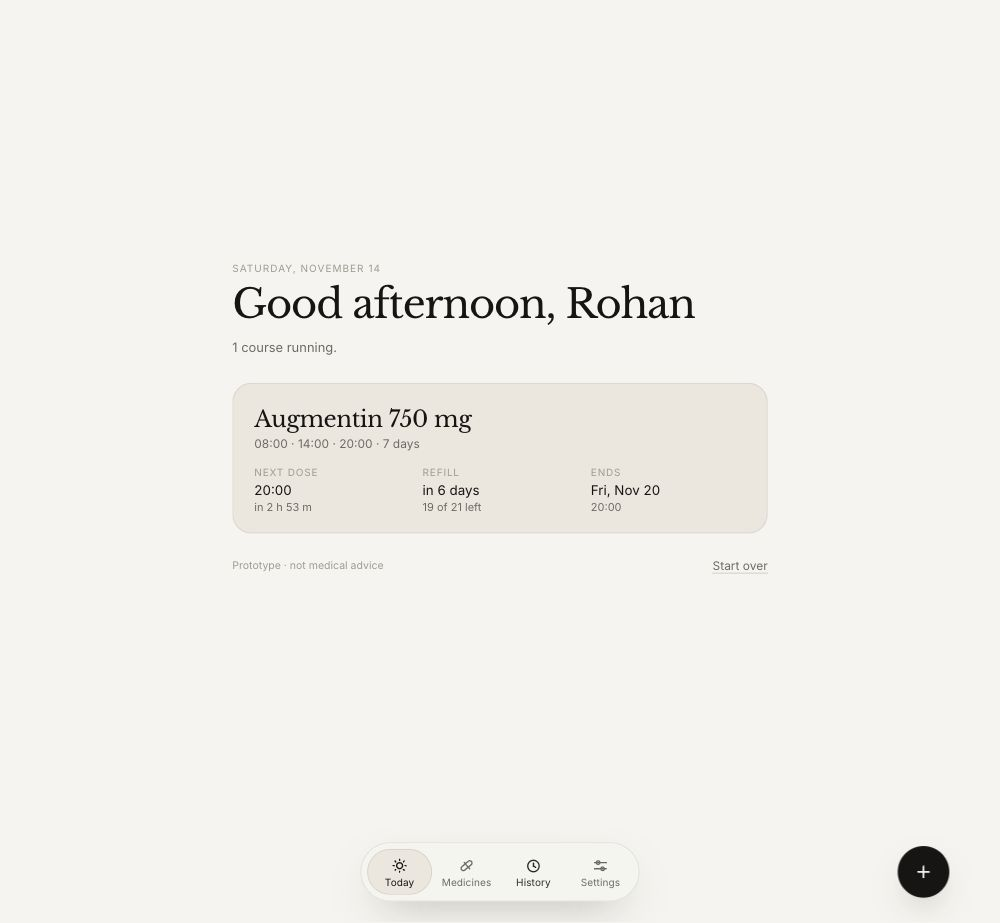
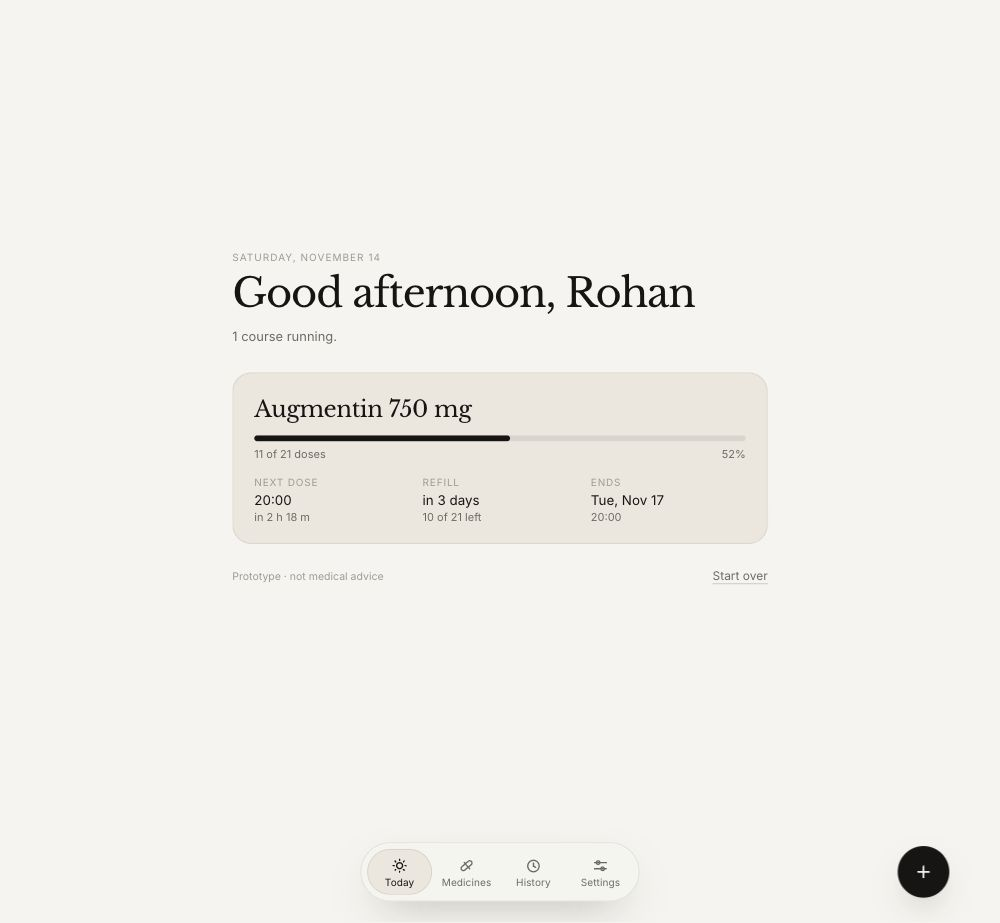
Show how far through the course you are, instead of the schedule text
The plan card's subtitle listed the kind, the times and the length — three facts
nobody needs at a glance. It is now a progress bar: doses behind you over doses
in the course, with '11 of 21 doses' and the percentage underneath. It reads at
arm's length, which is the distance this card is read from.

The bar is derived — done is the count of generated doses whose time has
passed — so it cannot disagree with the next dose below it.

diff --git a/app/src/Home.tsx b/app/src/Home.tsx
@@ -8,7 +8,6 @@ import {
   untilWords,
   type Medicine,
 } from "./engine";
-import { kindLabel } from "./kinds";
 import type { Profile } from "./Onboarding";
 
 function greeting(hour: number) {
@@ -90,16 +89,31 @@ export default function Home({
           <section className="plans">
             {medicines.map((m) => {
               const plan = planFor(m, now);
+              const pct = plan.total ? Math.round((plan.done / plan.total) * 100) : 0;
               return (
                 <article className="plan" key={m.id}>
                   <div className="plan-head">
                     <h2>
                       {displayName(m.name)} {m.strength}
                     </h2>
-                    <span className="plan-sub">
-                      {kindLabel(m.form)} · {m.times.join(" · ")} · {m.days} day
-                      {m.days === 1 ? "" : "s"}
-                    </span>
+                    <div className="plan-progress">
+                      <div
+                        className="bar"
+                        role="progressbar"
+                        aria-valuemin={0}
+                        aria-valuemax={plan.total}
+                        aria-valuenow={plan.done}
+                        aria-label={`${plan.done} of ${plan.total} doses`}
+                      >
+                        <i style={{ width: `${pct}%` }} />
+                      </div>
+                      <div className="plan-meta">
+                        <span>
+                          {plan.done} of {plan.total} doses
+                        </span>
+                        <span>{pct}%</span>
+                      </div>
+                    </div>
                   </div>
 
                   <dl className="plan-kv">

diff --git a/app/src/flow.css b/app/src/flow.css
@@ -591,7 +591,7 @@
   background: var(--bg-2);
   text-align: left;
 }
-.plan-head { display: grid; gap: 3px; }
+.plan-head { display: grid; gap: 13px; }
 .plan-head h2 {
   margin: 0;
   font-family: var(--font-accent);
@@ -599,7 +599,6 @@
   font-size: 24px;
   letter-spacing: -0.02em;
 }
-.plan-sub { color: var(--muted); font-size: 12.5px; }
 
 .plan-kv {
   display: grid;
@@ -653,3 +652,24 @@
 .scan-manual:hover { color: #fff; }
 
 
+
+.plan-progress { display: grid; gap: 7px; }
+.plan-progress .bar {
+  height: 6px;
+  border-radius: 999px;
+  background: var(--hair);
+  overflow: hidden;
+}
+.plan-progress .bar > i {
+  display: block;
+  height: 100%;
+  border-radius: inherit;
+  background: var(--ink);
+  transition: width 0.35s cubic-bezier(0.32, 0.72, 0.28, 1);
+}
+.plan-meta {
+  display: flex;
+  justify-content: space-between;
+  color: var(--muted);
+  font-size: 11.5px;
+}

diff --git a/README.md b/README.md
@@ -32,7 +32,7 @@ seconds of patience.
 | Confirm the read | done — the name, strength and kind, read for real; *"did we get that right?"* → yes / try again / enter manually |
 | Received + AM/PM | done — the day the prescription was handed over, morning or evening |
 | Times + course length | done — 1–3 doses a day at set times, 3–30 days |
-| Plan | done — next dose, refill, and the day the course ends |
+| Plan | done — a progress bar of doses behind you, then next dose, refill and the day the course ends |
 | Label → schedule | the reader is built (`lab/`), wired through a loopback bridge; the schedule is still asked for, not inferred |
 | Scheduler, notifications | not built |
 
